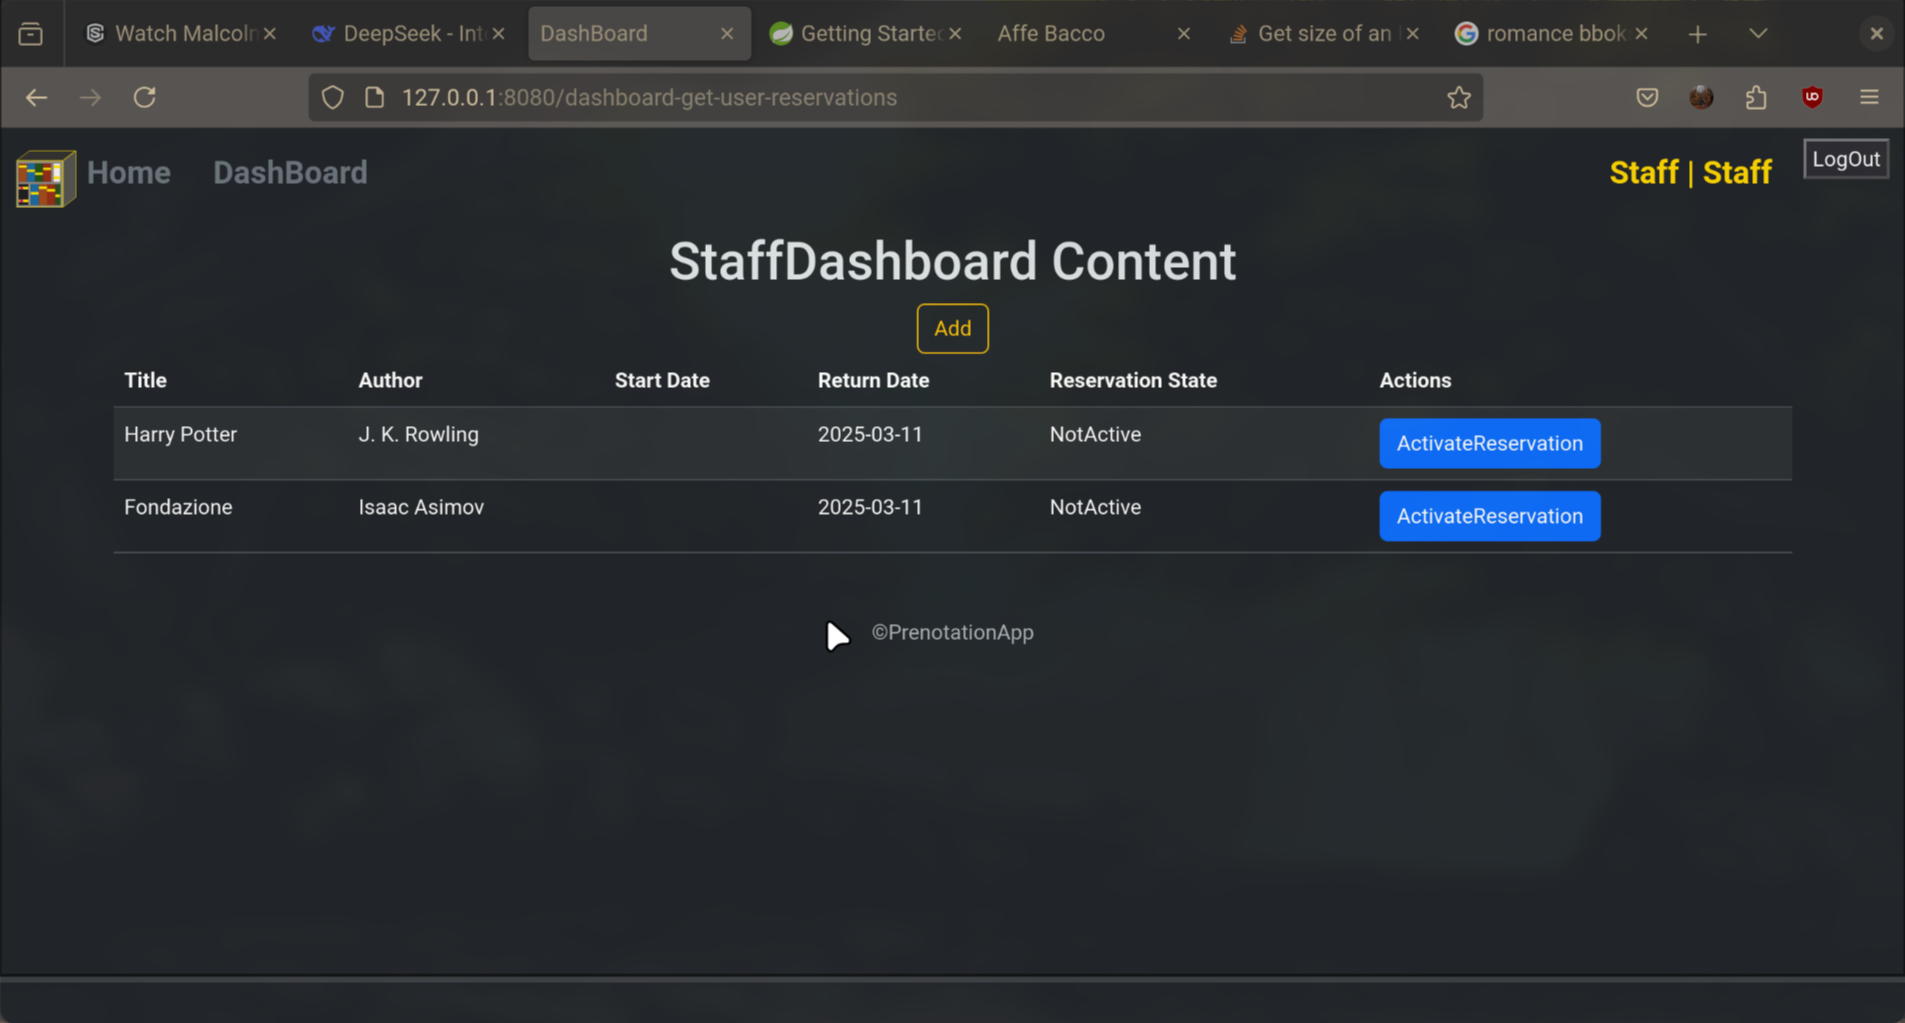
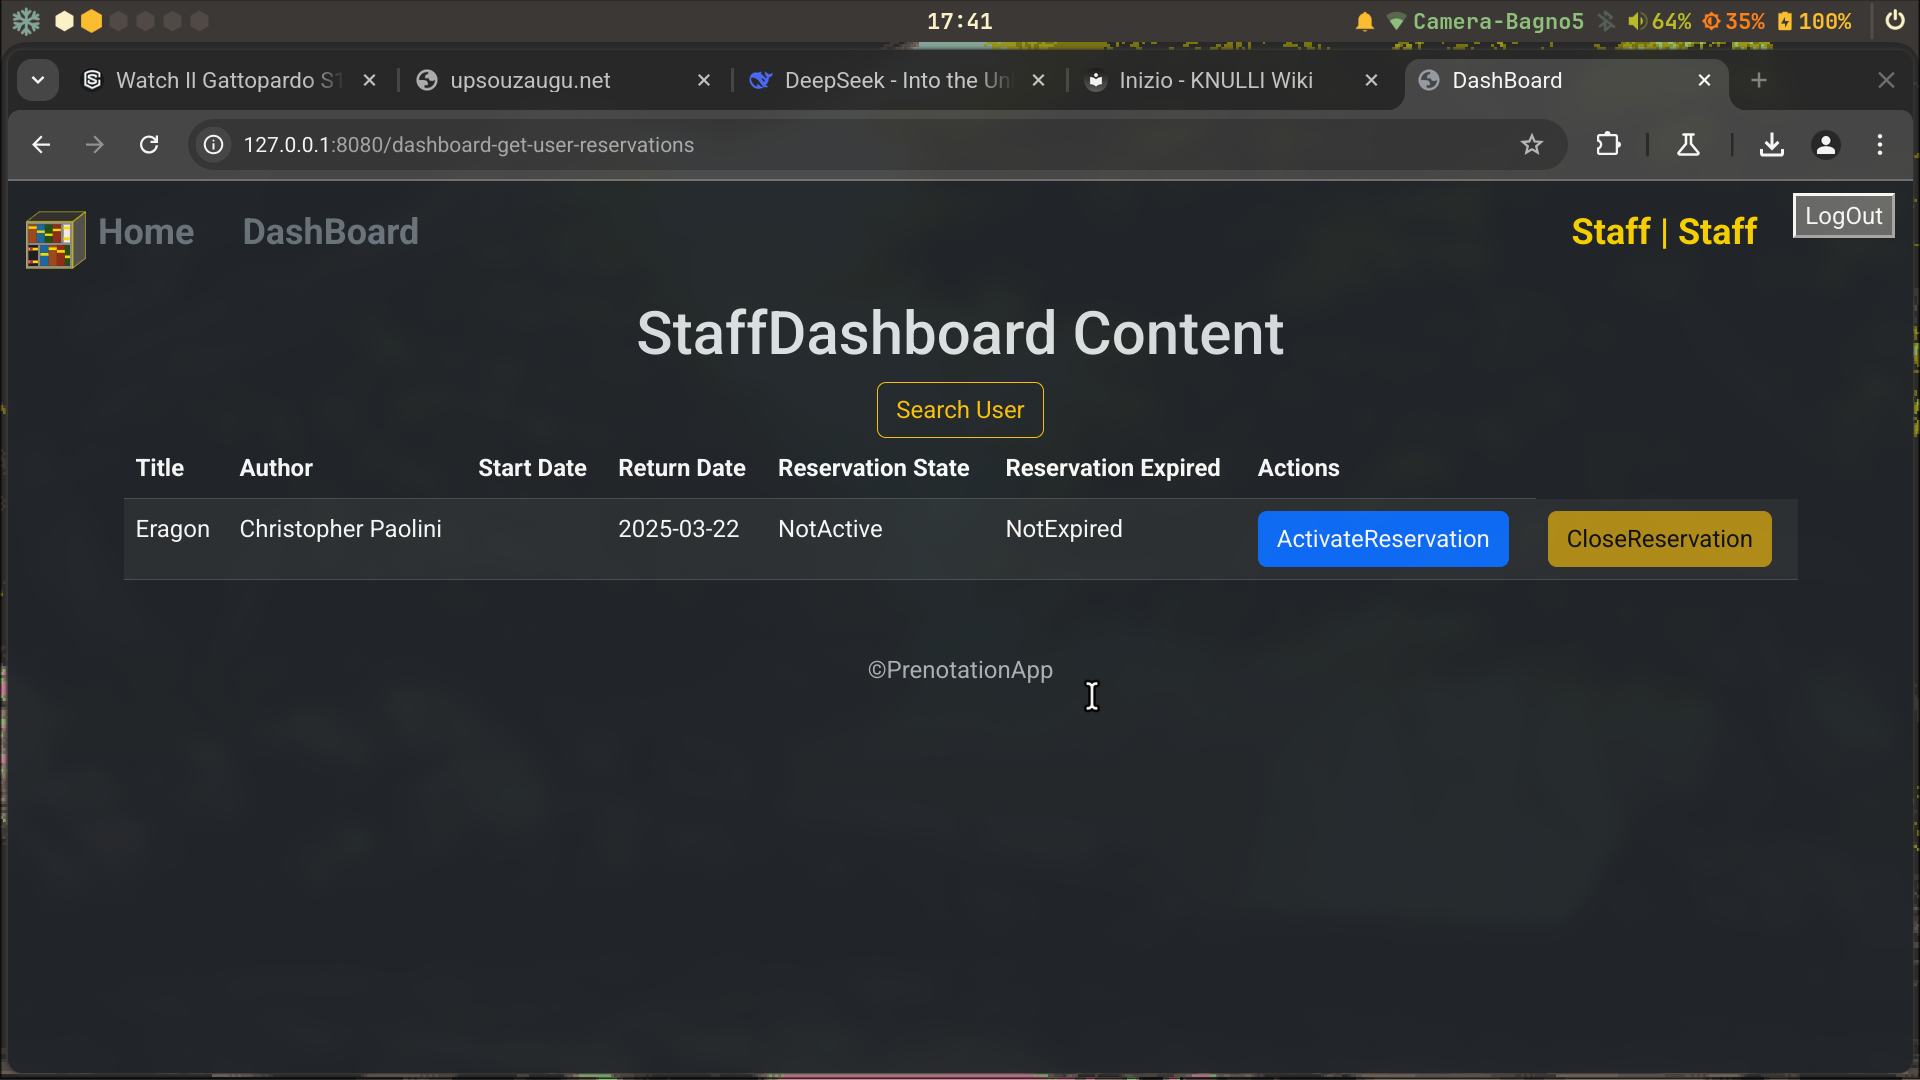
update

diff --git a/PrenotationApp/src/main/resources/templates/staff-dashboard.html b/PrenotationApp/src/main/resources/templates/staff-dashboard.html
@@ -9,7 +9,7 @@
     <section layout:fragment="content">
       <h1 style="text-align: center;">StaffDashboard Content</h1>
       <div class="d-flex justify-content-center">
-        <button type="button" data-bs-toggle="modal" data-bs-target="#searched-user-modal" class="btn btn-outline-warning">Add</button>
+        <button type="button" data-bs-toggle="modal" data-bs-target="#searched-user-modal" class="btn btn-outline-warning">Search User</button>
       </div>
 
       <!-- Reservation-Table -->
@@ -22,6 +22,7 @@
                     <th>Start Date</th>
                     <th>Return Date</th>
                     <th>Reservation State</th>
+                    <th>Reservation Expired</th>
                     <th>Actions</th>
                     <!-- Add more columns as needed -->
                 </tr>
@@ -34,13 +35,20 @@
                     <td th:text="${reservation.endDate}"></td>
                     <td th:if="${reservation.active}" th:text="Active"></td>
                     <td th:if="${!reservation.active}" th:text="NotActive"></td>
+                    <td th:if="${reservation.expired}" th:text="Expired"></td>
+                    <td th:if="${!reservation.expired}" th:text="NotExpired"></td>
                     <td>
-                      <form action="#" th:action="@{'/dashboard-activate-reservation/{id}'(id=${reservation.id})}" th:method="delete" >
+                      <form action="#" th:action="@{'/dashboard-activate-reservation/{id}'(id=${reservation.id})}" th:method="post" >
                         <input type="hidden" th:name="${_csrf.parameterName}" th:value="${_csrf.token}" />
-                        <button class="btn btn-primary" type="submit" id="activateReservation"> ActivateReservation </button>
+                        <button th:disabled="${reservation.active}" class="btn btn-primary" type="submit" id="activateReservation"> ActivateReservation </button>
                       </form>
                     </td>
-                    <!-- Add more data cells as needed -->
+                    <td>
+                      <form action="#" th:action="@{'/dashboard-close-reservation/{id}'(id=${reservation.id})}" th:method="post" >
+                        <input type="hidden" th:name="${_csrf.parameterName}" th:value="${_csrf.token}" />
+                        <button th:disabled="${!(reservation.expired and reservation.active)}" class="btn btn-warning" type="submit" id="closeReservation"> CloseReservation </button>
+                      </form>
+                    </td>
                 </tr>
             </tbody>
         </table>

diff --git a/PrenotationApp/src/main/java/LC/PrenotationApp/BuisnessLogic/ReservationConfirmService.java b/PrenotationApp/src/main/java/LC/PrenotationApp/BuisnessLogic/ReservationConfirmService.java
@@ -16,7 +16,9 @@ public class ReservationConfirmService {
     private ReservationDao reservationDao;
 
     public List<Reservation> getReservations(User user) {
-        return reservationDao.findByUser(user);
+        List<Reservation> reservations = reservationDao.findByUser(user);
+        reservations.removeIf(r -> !r.getActive() && r.getExpired());
+        return reservations;
     }
 
     public Reservation getReservationById(long id) throws ChangeSetPersister.NotFoundException {
@@ -37,6 +39,8 @@ public class ReservationConfirmService {
     public void closeReservation(Reservation reservation) {
         if (reservation.getExpired()) {
             reservation.closeReservation();
+            reservationDao.save(reservation);
         }
+
     }
 }

diff --git a/PrenotationApp/src/main/java/LC/PrenotationApp/Controller/StaffController.java b/PrenotationApp/src/main/java/LC/PrenotationApp/Controller/StaffController.java
@@ -43,8 +43,8 @@ public class StaffController {
         return "staff-dashboard";
     }
 
-    @DeleteMapping("dashboard-close-reservation/{id}")
-    public String closeReservation(@PathVariable long id) throws ChangeSetPersister.NotFoundException {
+    @PostMapping("dashboard-close-reservation/{id}")
+    public String closeReservation(@PathVariable("id") long id) throws ChangeSetPersister.NotFoundException {
         reservationConfirmService.closeReservation(reservationConfirmService.getReservationById(id));
         return "staff-dashboard";
     }
